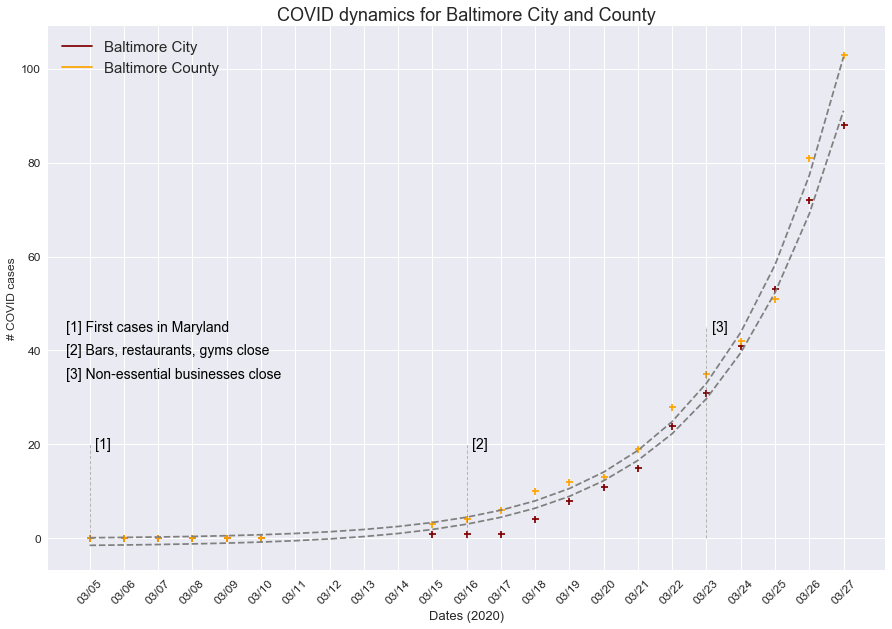
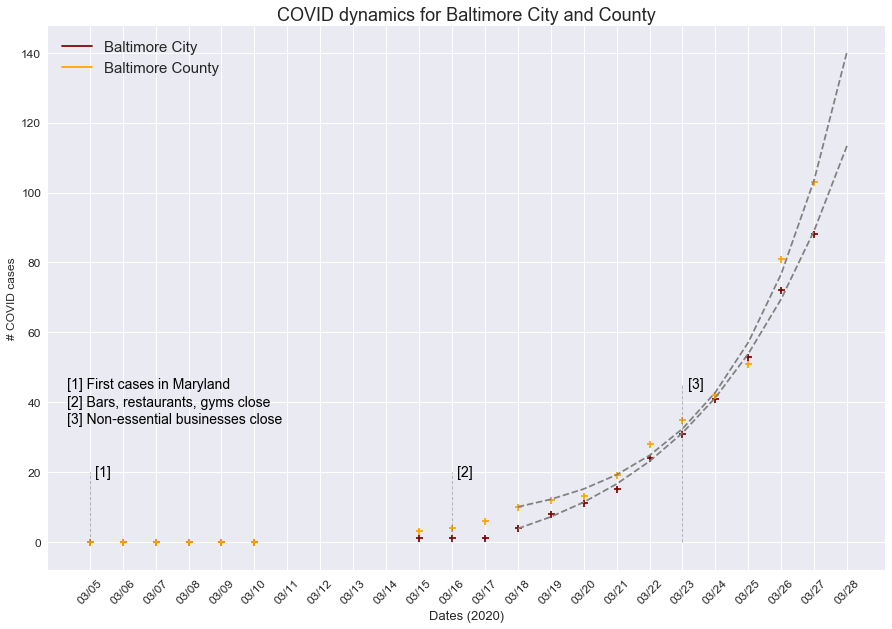
update

diff --git a/README.md b/README.md
@@ -11,32 +11,38 @@ The Jupyter notebook for all updated results is found here [[1]](https://github.
 
 CURRENT RESULTS
 ------------
-Last update: 03/27/2020 8:00pm EST
+Last update: 03/28/2020 10:00am EST
 
 MARYLAND
 ------------
 
 ![](https://github.com/akonstodata/md_county_covid/blob/master/results/MD_COVID_update.png)
 
-Prediction for number of total cases for 03/28 is 961
+The best model for Maryland is the exponential model.  Prediction for number of total cases for 03/28 is 993.
 
-MARYLAND: three counties
+MARYLAND: Montgomery and Prince George's Counties
 ------------
-![](https://github.com/akonstodata/md_county_covid/blob/master/results/MD_COVID_3counties_update.png)
+![](https://github.com/akonstodata/md_county_covid/blob/master/results/MD_COVID_Howard_AA_update.png)
 
-Prediction for number of cases for Montgomery county for 03/28 is 249.
+The best model for Montgomery is the exponential model.  Prediction for number of total cases for 03/28 is 302.  
 
-Prediction for number of cases for Prince George's county for 03/28 is 179.
+The best model for Prince Georges is the exponential model.  Prediction for number of total cases for 03/28 is 288.   
 
-Prediction for number of cases for Anne Arundel county for 03/28 is 78. 
+MARYLAND: Howard and Anne Arundel Counties
+------------
+![](https://github.com/akonstodata/md_county_covid/blob/master/results/MD_COVID_Mont_Prince_update.png)
+
+The best model for Howard is the exponential model.  Prediction for number of total cases for 03/28 is 101.
+
+The best model for Anne Arundel is the exponential model.  Prediction for number of total cases for 03/28 is 114.
 
 MARYLAND: Baltimore
 ------------
 ![](https://github.com/akonstodata/md_county_covid/blob/master/results/MD_COVID_Baltimore_update.png)
 
-Prediction for number of cases for Baltimore City for 03/28 is 119.
+The best model for Baltimore City is the exponential model.  Prediction for number of total cases for 03/28 is 143.
 
-Prediction for number of cases for Baltimore County for 03/28 is 136. 
+The best model for Baltimore County is the exponential model.  Prediction for number of total cases for 03/28 is 190.
 
 SOURCE DATA
 ------------
